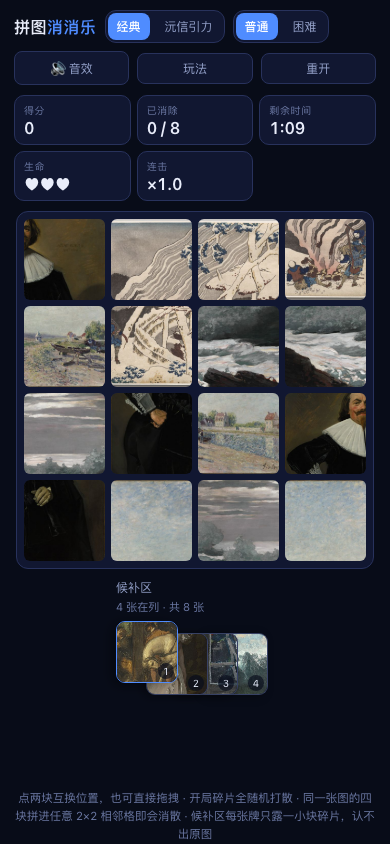
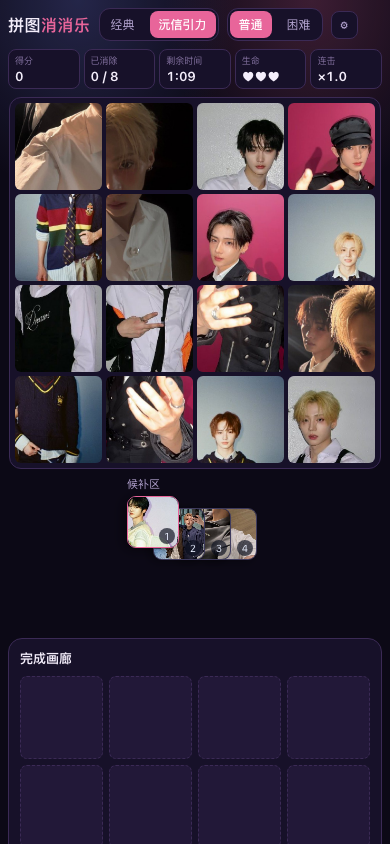
优化移动端显示 增加彩蛋

diff --git a/puzzle-game.html b/puzzle-game.html
@@ -33,9 +33,9 @@ body{min-height:100vh;min-height:100dvh;display:flex;justify-content:center;
 .logo{font-size:19px;font-weight:600;letter-spacing:.5px}
 .logo span{color:var(--acc)}
 .top .grow{flex:1}
-/* 工具按钮成组：窄屏时整组独占一行等宽铺开，否则中间的弹性占位会把「音效」
-   单独拽到第一行、剩下两个再换行，看起来像错位 */
+/* 工具按钮成组：窄屏时整组收进 ⚙ 下拉，省掉一整行（手机竖向空间全靠这么抠） */
 .tools{display:flex;align-items:center;gap:12px}
+.gear{display:none;align-items:center;justify-content:center}
 .iconbtn{border:1px solid var(--line);background:var(--panel);color:var(--sub);
   border-radius:9px;padding:7px 12px;font-size:13px;cursor:pointer;transition:.15s}
 .iconbtn:hover{border-color:var(--acc);color:var(--txt)}
@@ -213,13 +213,22 @@ body[data-theme="yuanxin"] .tbtn.sel{background:rgba(232,101,154,.15)}
   .leftcol{flex:1 1 100%}
   .gall{grid-template-columns:repeat(6,1fr)}
 }
-/* 手机：整体收紧一圈 —— 顶栏、HUD、候补区、弹窗都要缩 */
+/* 手机：整体收紧一圈 —— 顶栏、HUD、候补区、弹窗都要缩。
+   目标只有一个：把竖向空间全让给棋盘，让格子尽量大，同时**整局不超出一屏**。 */
 @media(max-width:620px){
-  body{padding-top:10px;padding-bottom:max(18px,env(safe-area-inset-bottom))}
-  .top{gap:8px;margin-bottom:10px}
+  body{padding-top:8px;padding-bottom:max(10px,env(safe-area-inset-bottom));
+       padding-left:max(8px,env(safe-area-inset-left));
+       padding-right:max(8px,env(safe-area-inset-right))}
+  .top{gap:8px;margin-bottom:8px;position:relative}   /* 下拉菜单以顶栏为定位基准 */
   .top .grow{display:none}
-  .tools{flex:1 1 100%;gap:8px}
-  .tools .iconbtn{flex:1 1 0;text-align:center;white-space:nowrap}
+  /* 音效/玩法/重开 收进 ⚙ 下拉：省掉一整行（约 44px），省下来的全给棋盘 */
+  .gear{display:inline-flex}
+  .tools{position:absolute;right:0;top:100%;z-index:60;display:none;
+    flex-direction:column;align-items:stretch;gap:6px;min-width:132px;
+    background:var(--panel);border:1px solid var(--line);border-radius:10px;padding:6px;
+    box-shadow:0 14px 34px rgba(0,0,0,.55)}
+  .tools.open{display:flex}
+  .tools .iconbtn{text-align:left;border:0;background:transparent;padding:7px 8px}
   .logo{font-size:16px}
   .logo em{display:none}
   .iconbtn{padding:6px 9px;font-size:12px;border-radius:8px}
@@ -227,17 +236,21 @@ body[data-theme="yuanxin"] .tbtn.sel{background:rgba(232,101,154,.15)}
   .modechips button{padding:5px 9px;font-size:12px}
   .chipgroup{gap:5px}
   .chiplab{display:none}
-  .hud{grid-template-columns:repeat(3,1fr);gap:6px;margin-bottom:10px}
-  .card{padding:7px 9px;border-radius:10px}
-  .card .k{font-size:10px}
-  .card .v{font-size:16px}
-  .stage{gap:10px}
+  /* HUD 压成「一行 5 列」：原来 3 列要占两行，白白吃掉 44px 高度 */
+  .hud{grid-template-columns:repeat(5,1fr);gap:4px;margin-bottom:8px}
+  .card{padding:4px 6px;border-radius:8px}
+  .card .k{font-size:9px;letter-spacing:0}
+  .card .v{font-size:13px;margin-top:1px}
+  .stage{gap:6px}
+  .leftcol{gap:6px}
   /* 候补区换成竖排：标签在上、牌列在下，右侧那段说明直接藏掉，省横向空间 */
-  .qrow{flex-direction:column;align-items:flex-start;gap:6px}
-  .qlab{text-align:left}
+  .qrow{flex-direction:column;align-items:flex-start;gap:4px}
+  .qlab{text-align:left;font-size:11px}
+  /* 「4 张在列 · 共 8 张」在手机上和侧栏「本局数据」重复，去掉 */
+  .qlab small{display:none}
   .qhint{display:none}
-  .note{font-size:11.5px;line-height:1.6}
-  .boardwrap{padding:7px;border-radius:12px}
+  .note{display:none}                  /* 底部玩法说明收起，想看从 ⚙ 里点「玩法」 */
+  .boardwrap{padding:5px;border-radius:12px}
   .box{padding:10px 11px}
   .gall{grid-template-columns:repeat(4,1fr)}
   .sheet{padding:16px 15px;border-radius:14px;max-height:88vh}
@@ -251,8 +264,8 @@ body[data-theme="yuanxin"] .tbtn.sel{background:rgba(232,101,154,.15)}
 @media(max-width:380px){
   .logo{font-size:15px}
   .logo span{display:inline}
-  .hud{grid-template-columns:repeat(3,1fr)}
-  .card .v{font-size:15px}
+  .card .k{font-size:8.5px}
+  .card .v{font-size:12px}
   .btns button{font-size:12px}
 }
 /* 横屏矮屏：手机横过来只有 ~390px 高，必须狠挤一把才不用滚动 */
@@ -290,11 +303,12 @@ body[data-theme="yuanxin"] .tbtn.sel{background:rgba(232,101,154,.15)}
         <button data-m="hard">困难</button>
       </div>
     </div>
-    <div class="tools">
+    <div class="tools" id="tools">
       <button class="iconbtn" id="btnMute">🔊 音效</button>
       <button class="iconbtn" id="btnHelp">玩法</button>
       <button class="iconbtn" id="btnRestart">重开</button>
     </div>
+    <button class="iconbtn gear" id="btnTools" aria-label="设置">⚙</button>
   </div>
 
   <div class="hud" id="hud">
@@ -385,14 +399,26 @@ const CONFIG = {
   FX_RANGE: [2, 5],   // 彩蛋可能落在第 2 ~ 第 5 张之间
   FX_HOLD: 2200,      // 动图停留时长（毫秒），之后淡出消失
   FX_CAPS: ['拼成啦！', '漂亮！', '连上了！', '干得漂亮！'],
+  /* ---- 定点彩蛋 ----
+     拼到「某一张指定照片」时弹「某一个指定动图」，按模式区分。
+     · key 是照片身份：主题key + ':' + 图集里的 id（见 makePic()），
+       比如 'yuanxin:yx15' 就是沅信引力图集的第 15 张（0088Md9Kgy1ien8oevk0oj32dt1kw1ky.jpg）。
+     · 只在该照片所属主题下才可能触发（这张图属于沅信引力，经典图库里永远不会命中）。
+     · hold 可选：不写就用 FX_HOLD。这里两个动图各 3 秒，所以留出 3.2 秒播完一轮。 */
+  FX_PIC: {
+    'yuanxin:yx15': {
+      normal: { gif:'hug_light.gif',  cap:'抱一下～', hold:3200 },
+      hard:   { gif:'kiss_light.gif', cap:'亲一个～', hold:3200 }
+    }
+  },
   modes: {
     /* 普通：4×4＝16 格，同时排 4 张，消 8 张通关，限时 1:22（82 秒）
        plant:0 = 开局碎片全随机（用户要求「牌面全部随机」，不给任何预置的正确相邻块） */
-    normal: { name:'普通', cols:4, rows:4, maxCell:118, minCell:40, gap:6,
+    normal: { name:'普通', cols:4, rows:4, maxCell:118, minCell:40, gap:6, gapNarrow:4,
               target:8, timeStart:82, timeBonus:12, lives:3, timeScoreMax:200,
               hintCost:30, plant:0, goalSteps:4 },
     /* 困难：6×8＝48 格，同时排 12 张，消 16 张通关，限时 2:45（165 秒） */
-    hard:   { name:'困难', cols:6, rows:8, maxCell:78, minCell:26, gap:4,
+    hard:   { name:'困难', cols:6, rows:8, maxCell:78, minCell:26, gap:4, gapNarrow:3,
               target:16, timeStart:165, timeBonus:20, lives:3, timeScoreMax:250,
               hintCost:50, plant:0, goalSteps:8 }
   }
@@ -659,7 +685,13 @@ function computeCell(){
   const top=clamp(wrap.getBoundingClientRect().top + padY, 0, vh*0.45);   // 页面滚下去时按 0 算
   let reserved=178;                                   // 候补区 + 底部提示行 + 边距
   const qrow=document.querySelector('.qrow');
-  if(qrow){ const qh=qrow.getBoundingClientRect().height; if(qh>0) reserved=qh+24+22; }
+  if(qrow){ const qh=qrow.getBoundingClientRect().height; if(qh>0) reserved=qh+24; }
+  /* 底部说明行：手机上被 display:none 收掉了，就不能再当它占着位 ——
+     用 offsetParent 判断是否真的在渲染（display:none 时为 null） */
+  const noteEl=$('note');
+  if(noteEl && noteEl.offsetParent!==null){
+    const nh=noteEl.getBoundingClientRect().height; if(nh>0) reserved += nh+8;
+  }
   const availH=Math.max(150, vh - top - reserved);
   const byW=(availW - (S.cols-1)*S.gap) / S.cols;
   const byH=(availH - (S.rows-1)*S.gap) / S.rows;
@@ -729,6 +761,9 @@ function placeSizeAll(){
 
 function layoutBoard(){
   layoutQueue();          // 先定候补牌的尺寸，computeCell 量高度时才是准的
+  /* 手机上把格子间距调小（普通 6→4、困难 4→3）：同样一屏能塞下更大的格子。
+     必须放在算 cell 之前，cellPos/boardW 都读 S.gap。 */
+  S.gap = (isCompact() && S.M.gapNarrow!=null) ? S.M.gapNarrow : S.M.gap;
   S.cell=computeCell();
   PX = Math.round(clamp(S.cell*Math.min(window.devicePixelRatio||1,2)*1.9, 48, 300));
   /* 源图边长跟着「真实切片像素」走：4×4 大格拉到 640，8×12 小格降到 512，
@@ -773,12 +808,23 @@ let Q_STEP = 38;       // 每张牌向左叠压的步长：步长越大，露出
 const Q_FRAG_PX = 256; // 碎片位图边长：牌 CSS 最大 76px，留足 Retina 余量
 const qEls = new Map();
 
-/* 窄屏把牌和步长一起缩小，否则 4 张牌叠出来比屏幕还宽（尺寸走 CSS 变量） */
-function layoutQueue(){
+/* 窄屏判定：和 CSS 的 ≤620px 断点保持一致（牌尺寸、间距、工具下拉都看它） */
+function isNarrow(){
   const vw=Math.min(window.innerWidth, document.documentElement.clientWidth||1e9);
-  const narrow = vw <= 620;
-  Q_CARD = narrow ? 62 : 76;
-  Q_STEP = narrow ? 30 : 38;
+  return vw <= 620;
+}
+/* 紧凑档：窄屏 **或** 矮屏（手机横过来只有 ~390px 高）。
+   横屏虽然宽，但竖向一样紧张，所以牌和间距也要走小一档，否则候补区会被顶出一屏。 */
+function isCompact(){
+  const vh=(window.visualViewport && window.visualViewport.height) || window.innerHeight;
+  return isNarrow() || vh <= 560;
+}
+
+/* 紧凑档把牌和步长一起缩小，否则 4 张牌叠出来比屏幕还宽（尺寸走 CSS 变量） */
+function layoutQueue(){
+  const compact = isCompact();
+  Q_CARD = compact ? 52 : 76;
+  Q_STEP = compact ? 26 : 38;
   const root=document.documentElement.style;
   root.setProperty('--qcard', Q_CARD+'px');
   const host=$('queue'); if(!host) return;
@@ -1116,7 +1162,7 @@ function resolveBlock(br, bc){
   if(S.M.timeStart>0) S.timeLeft = Math.min(S.M.timeStart*1.6, S.timeLeft + S.M.timeBonus);
   S.gallery.push({ pic, score:sc.gain, url:thumbURL(pic) });
   renderGallery();
-  celebrateIfDue();
+  celebrateIfDue(pic);
 
   Sfx.clear(S.combo);
   burst(r.cx,r.cy);
@@ -1215,19 +1261,32 @@ function hideCelebrate(){
   clearTimeout(fxTimer);
   const box=$('fxpop'); if(box) box.classList.remove('on','out');
 }
+/* 本局已经弹过的「定点彩蛋」照片 —— 图集会被反复取用，同一张图一局里可能拼成两次，
+   不记一笔就会连着弹第二遍 */
+const fxDonePic = new Set();
 function resetCelebrate(){
   S.fxAt = CONFIG.FX_RANGE[0] + ((Math.random()*(CONFIG.FX_RANGE[1]-CONFIG.FX_RANGE[0]+1))|0);
+  fxDonePic.clear();
 }
-function celebrateIfDue(){
+/* 定点彩蛋优先于随机彩蛋：拼到 CONFIG.FX_PIC 里登记的照片 + 当前模式有配置，就弹指定动图，
+   并且把 S.fxAt 清掉（两者互斥），否则会连着弹两次。 */
+function celebrateIfDue(pic){
+  const hit = pic && CONFIG.FX_PIC[pic.key] && CONFIG.FX_PIC[pic.key][S.mode];
+  if(hit && !fxDonePic.has(pic.key)){
+    fxDonePic.add(pic.key);
+    S.fxAt=null;
+    setTimeout(()=>showCelebrate(hit.gif, hit.cap, hit.hold), 620);
+    return;
+  }
   if(S.fxAt==null || S.cleared!==S.fxAt) return;
   S.fxAt=null;
   setTimeout(showCelebrate, 620);      // 等飞散动画走完再弹，不然两段动效打架
 }
-function showCelebrate(){
+function showCelebrate(gif, capText, hold){
   const box=$('fxpop'), img=$('fximg'), cap=$('fxcap');
   if(!box || !img) return;
-  const src=CONFIG.FX_GIFS[(Math.random()*CONFIG.FX_GIFS.length)|0];
-  if(cap) cap.textContent=CONFIG.FX_CAPS[(Math.random()*CONFIG.FX_CAPS.length)|0];
+  const src=gif || CONFIG.FX_GIFS[(Math.random()*CONFIG.FX_GIFS.length)|0];
+  if(cap) cap.textContent=capText || CONFIG.FX_CAPS[(Math.random()*CONFIG.FX_CAPS.length)|0];
   clearTimeout(fxTimer);
   img.onerror=()=>{ box.classList.remove('on','out'); };   // 素材不存在：什么都不做
   img.onload=()=>{
@@ -1236,7 +1295,7 @@ function showCelebrate(){
     fxTimer=setTimeout(()=>{
       box.classList.add('out');
       fxTimer=setTimeout(()=>box.classList.remove('on','out'), 360);
-    }, CONFIG.FX_HOLD);
+    }, hold || CONFIG.FX_HOLD);
   };
   /* 末尾挂一个片段标识：同一张 gif 连续两局命中时也能从头播，而不是接着上一局那一帧 */
   img.src=src+'#'+(++fxSeq);
@@ -1487,9 +1546,9 @@ function openMenu(){
                      : '不限时 · 无生命，纯休闲')+'</small></div>';
   }).join('');
   showModal('<h2>拼图消消乐</h2><p class="desc">每张图切成 2×2 四块散落在棋盘上。<br>'+
-    '把同一张图的四块拼成一块 <b>2×2 相邻区域</b>（放在棋盘哪个位置都行），该图就会<b>碎片飞散</b>并消掉，'+
-    '这两列下方的碎片<b>整体上移</b>；棋盘下方的<b>候补区</b>里叠着一排牌，牌面是这张待入盘图上<b>随机位置、随机大小的一小块局部</b>，'+
-    '认不出是什么图，剩下三块长什么样也得等它入盘才知道。开局所有碎片<b>全随机打散</b>，没有任何预置的「送分对」。</p>'+
+    '把同一张图的四块拼成一块 <b>2×2 相邻区域</b>（棋盘哪个位置都行），该图就会<b>碎片飞散</b>并消掉，'+
+    '这两列下方的碎片<b>整体上移</b>，底部空位由<b>候补区</b>补一张新图。'+
+    '开局所有碎片<b>全随机打散</b>，没有任何预置的「送分对」。</p>'+
     '<div class="themerow" id="themeRow">'+themeRowHTML()+'</div>'+
     '<div class="optgrid">'+opts+'</div>'+
     '<div class="desc" id="themeHint" style="font-size:12px;margin:-4px 0 10px;display:none"></div>'+
@@ -1535,7 +1594,8 @@ function showHelp(){
     '计时归零扣 1 条命（各 3 条）并重新打乱，命用完即结束。<br>'+
     '<b>· 通关</b>：普通消除 8 张、困难 16 张。<br>'+
     '<b>· 彩蛋</b>：每局会在第 2~5 张之间随机挑一张，拼成时弹一个动图庆祝一下再消失（不影响操作、不暂停计时）。'+
-    '素材就是项目目录下的 fx-celebrate-1/2/3.gif，直接覆盖成自己的动图即可。</p>'+
+    '素材就是项目目录下的 fx-celebrate-1/2/3.gif；另外有「定点彩蛋」——'+
+    '拼到 CONFIG.FX_PIC 里登记的那张照片时，会按模式弹专属动图（普通 hug_light.gif / 困难 kiss_light.gif）。</p>'+
     '<div class="btns"><button class="primary" onclick="window.closeSheet()">知道了</button></div>');
 }
 window.showHelp=showHelp;
@@ -1580,6 +1640,16 @@ function syncChips(){
   $('modeChips').querySelectorAll('button').forEach(b=>
     b.classList.toggle('on', b.dataset.m===S.mode));
 }
+/* ⚙ 设置下拉（仅窄屏出现）：音效/玩法/重开 三个按钮原本要占一整行，
+   收进下拉后省下的高度全给棋盘。点任意一项即关闭，点空白处也关闭。 */
+function closeTools(){ const t=$('tools'); if(t) t.classList.remove('open'); }
+$('btnTools').onclick=e=>{ e.stopPropagation(); $('tools').classList.toggle('open'); };
+$('tools').addEventListener('click',e=>{
+  if(e.target.closest('button')) closeTools();
+});
+document.addEventListener('click',e=>{
+  if(!e.target.closest('#tools') && e.target.id!=='btnTools') closeTools();
+});
 $('btnMute').onclick=()=>{ const on=Sfx.toggle(); $('btnMute').textContent = on?'🔊 音效':'🔇 静音'; };
 $('btnHelp').onclick=()=>showHelp();
 $('btnRestart').onclick=()=>{ openMenu(); };
